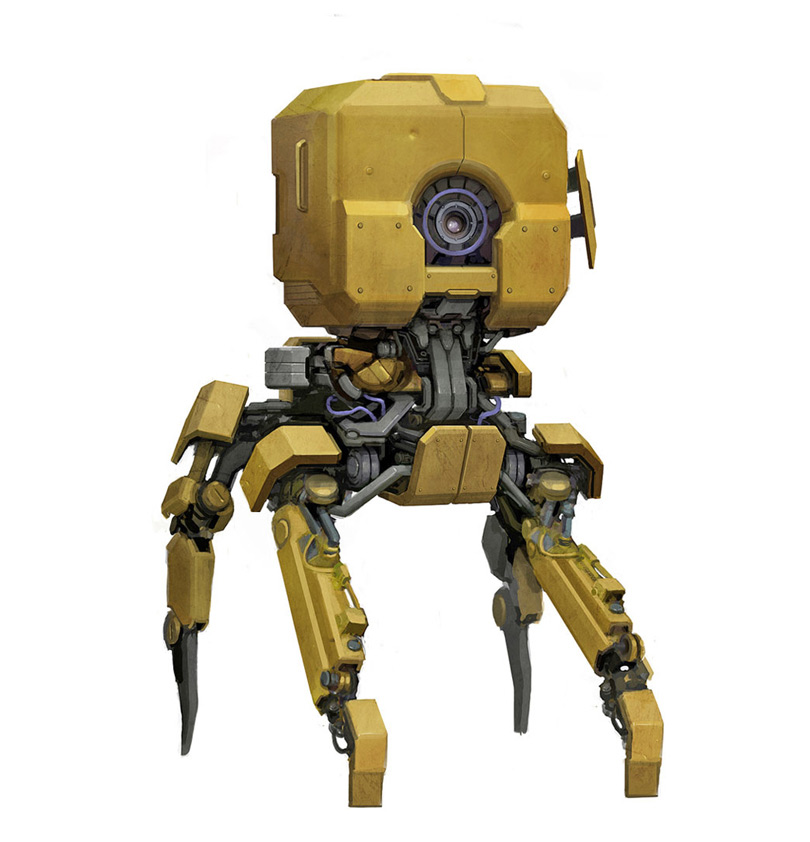
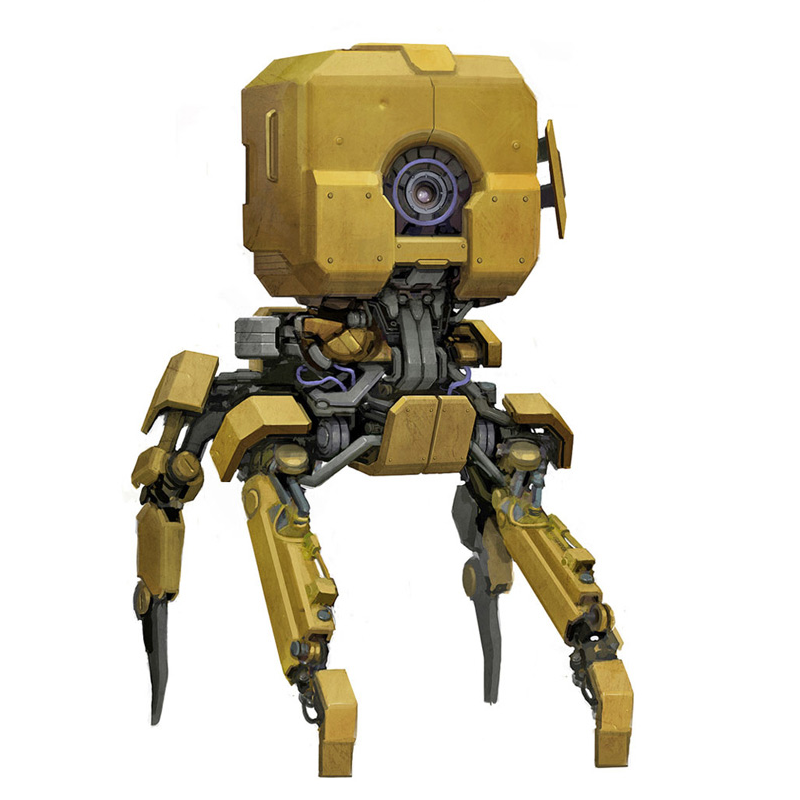
Cleaning up layout and resizing images.

Changed region(s): [[0.1562, 0.0312, 0.8438, 1.0]]

diff --git a/negative_selection.css b/negative_selection.css
@@ -8,8 +8,8 @@ div,p{
 
 #main_container{
 	width: 800px;
-	padding: 0;
-	border: black 2px solid;
+	padding: 0px;
+	border: black 3px solid;
 	margin-left: auto; margin-right:auto;
 }
 
@@ -21,23 +21,23 @@ h1,h2 {
 }
 
 h1{
-	height: 28px;
-	line-height: 28px;
-	font-size: 24px;
-	padding: 0px 5px 5px 5px;
+	height: 32px;
+	line-height: 32px;
+	font-size: 32px;
+	padding: 2px 5px 8px 10px;
 	
 }
 
 h2{
-	font-size: 16px;
-	padding: 0px 5px 1px 5px;
+	font-size: 20px;
+	padding: 0px 8px 1px 10px;
 }
 
 p {
-	font-size: 16px;
-	padding: 10px;
+	font-size: 18px;
+	padding: 10px 30px 15px 15px;
 	margin: 0px;
-	text-indent: 10px;
+	text-indent: 20px;
 	width: 500px;
 	line-height: 18px;
 	border-right: 2px solid #DDDDDD;
@@ -45,7 +45,8 @@ p {
 }
 
 .illustration{
-	width: 272px;
-	margin: 12px 12px;
+	max-width: 250px;
+	max-height: 400px;
+	margin: 10px 20px;
 	float: right;
-	}
+}

diff --git a/negative_selection.html b/negative_selection.html
@@ -44,7 +44,7 @@
 			<p> ... </p>
 			<p> ... </p>
 			<h2>The Inquisition</h2>
-			<img class="illustration" src="images/ns_inquisitor_001.jpg">
+			<img class="illustration" src="images/ns_inquisitor_001.png">
 			<p> The Imperial Inquisition is like the Imperial Crusade in that it enforces imperial doctrine. It differs, however, in that it's main
 				target of enforcement is the Imperial government itself. This includes the entire imperial capital, all outposts and embassies,
 				and all branches of the Imperial Legions, including the Crusade.</p>
